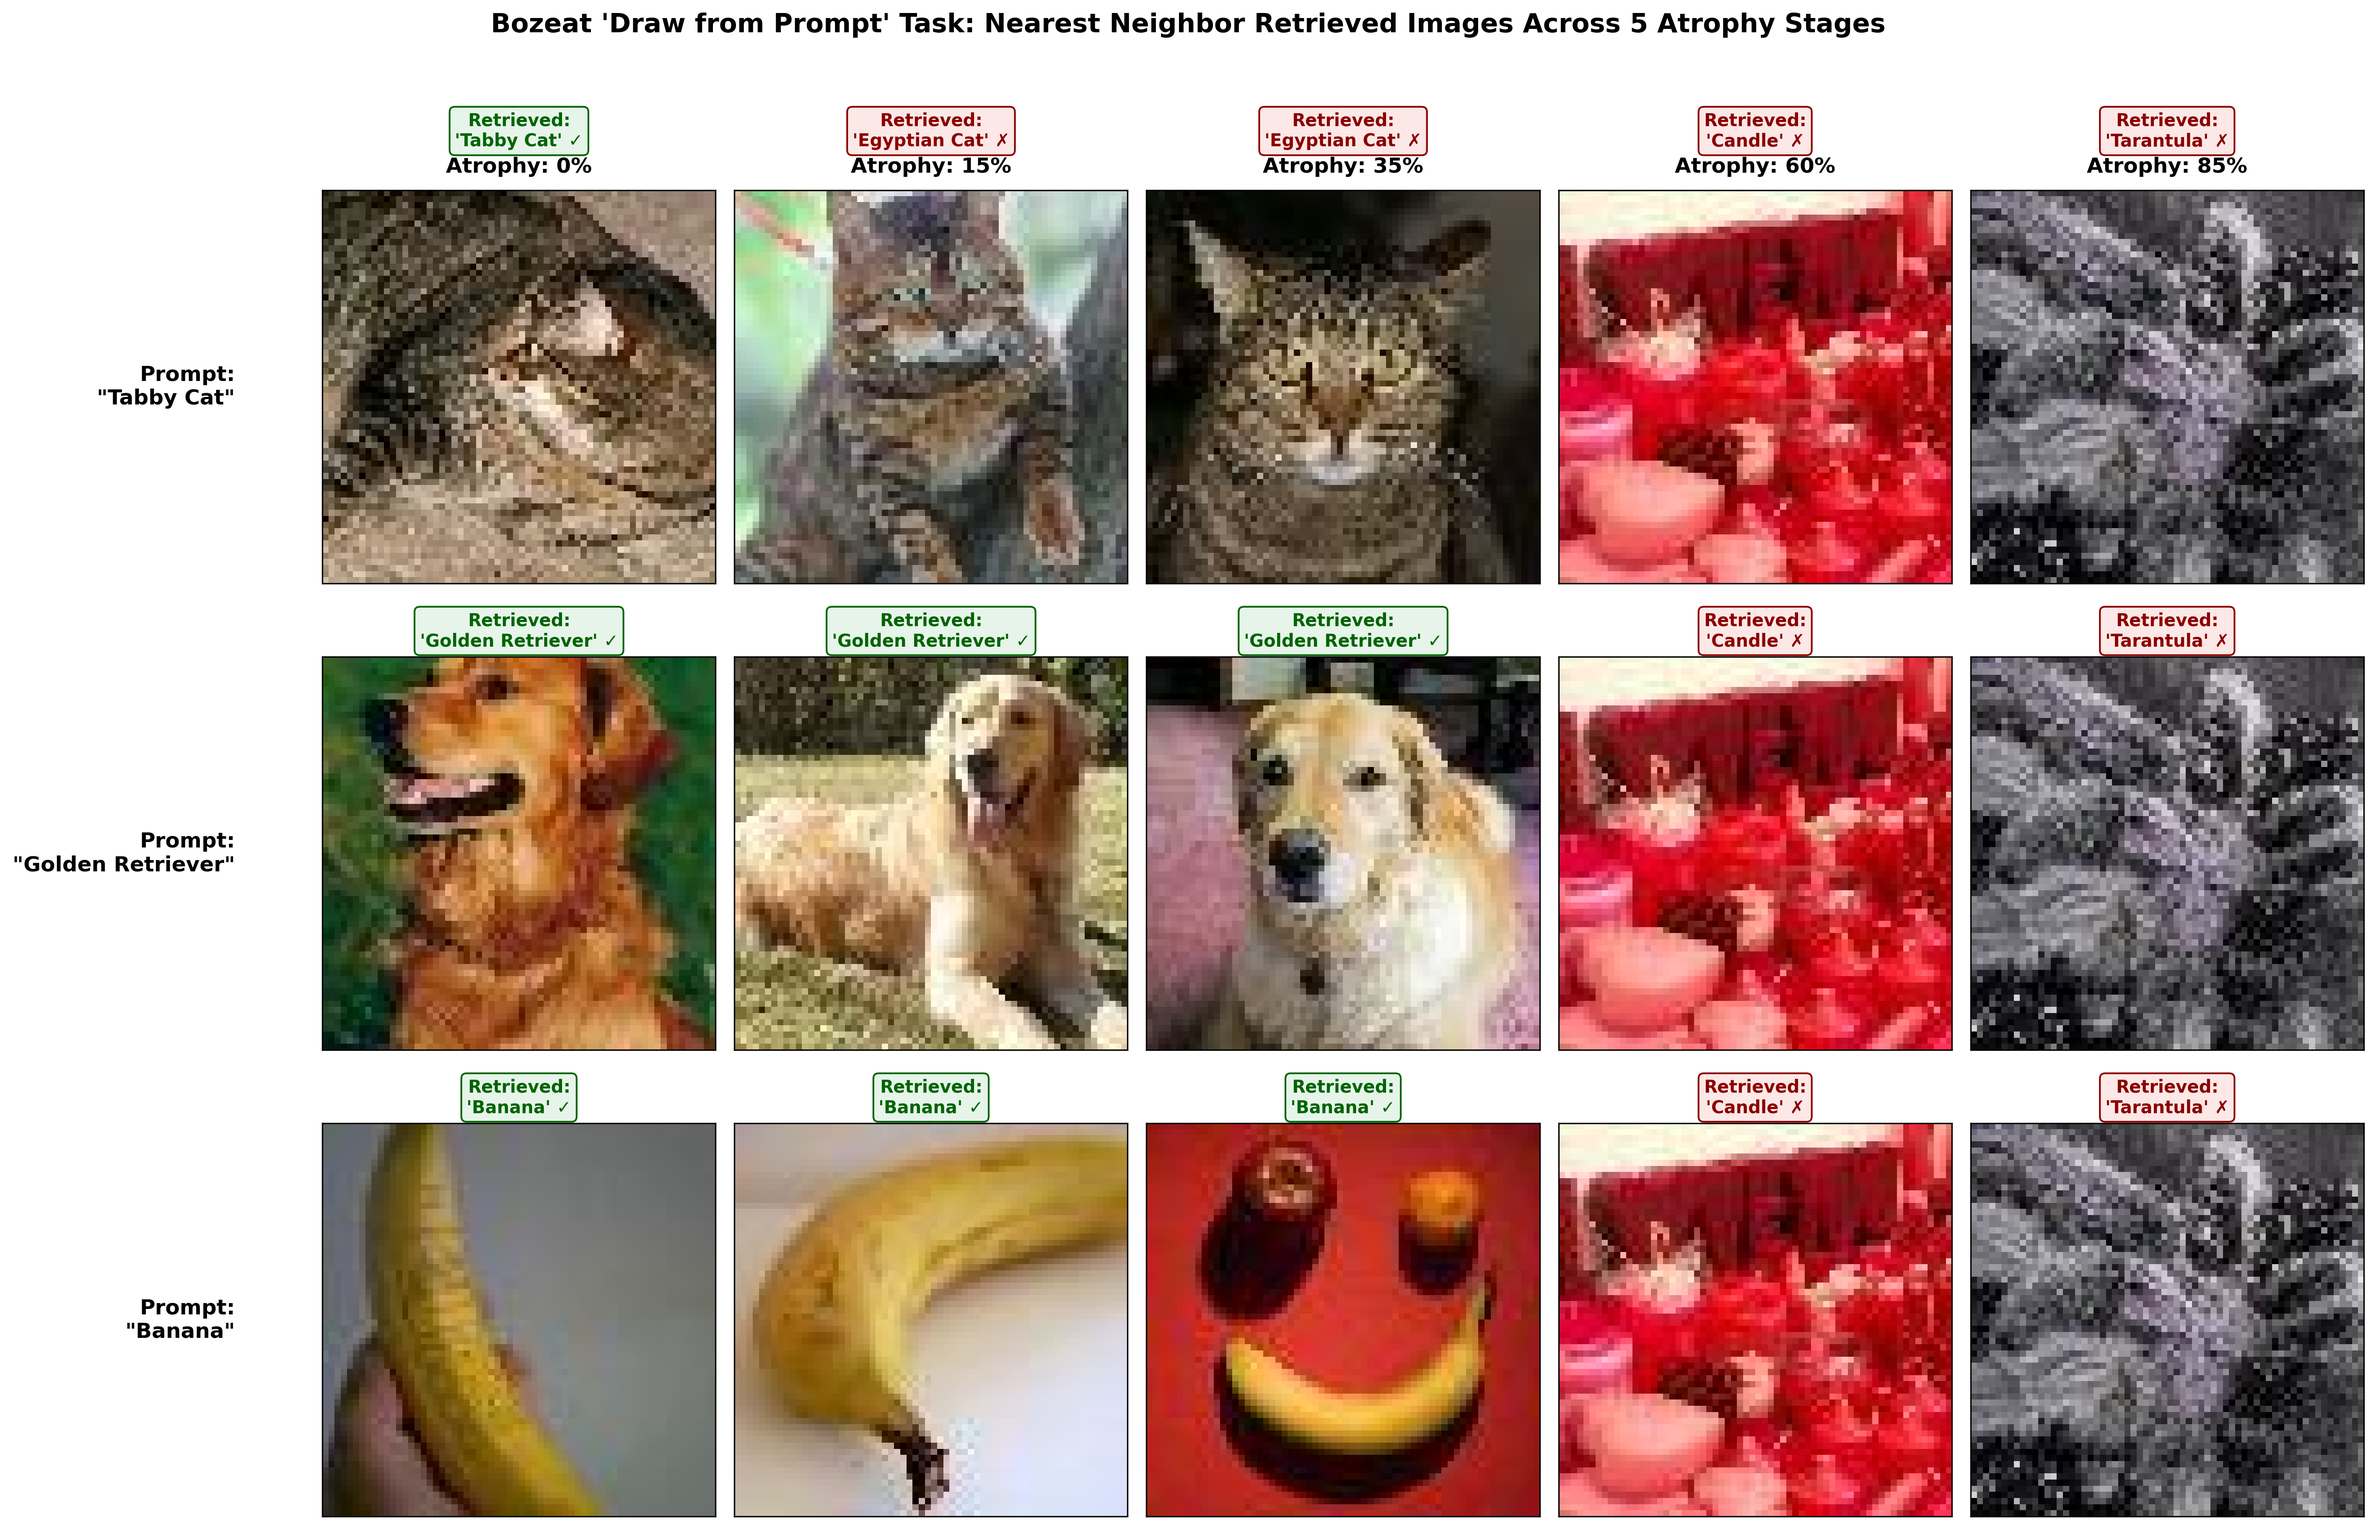
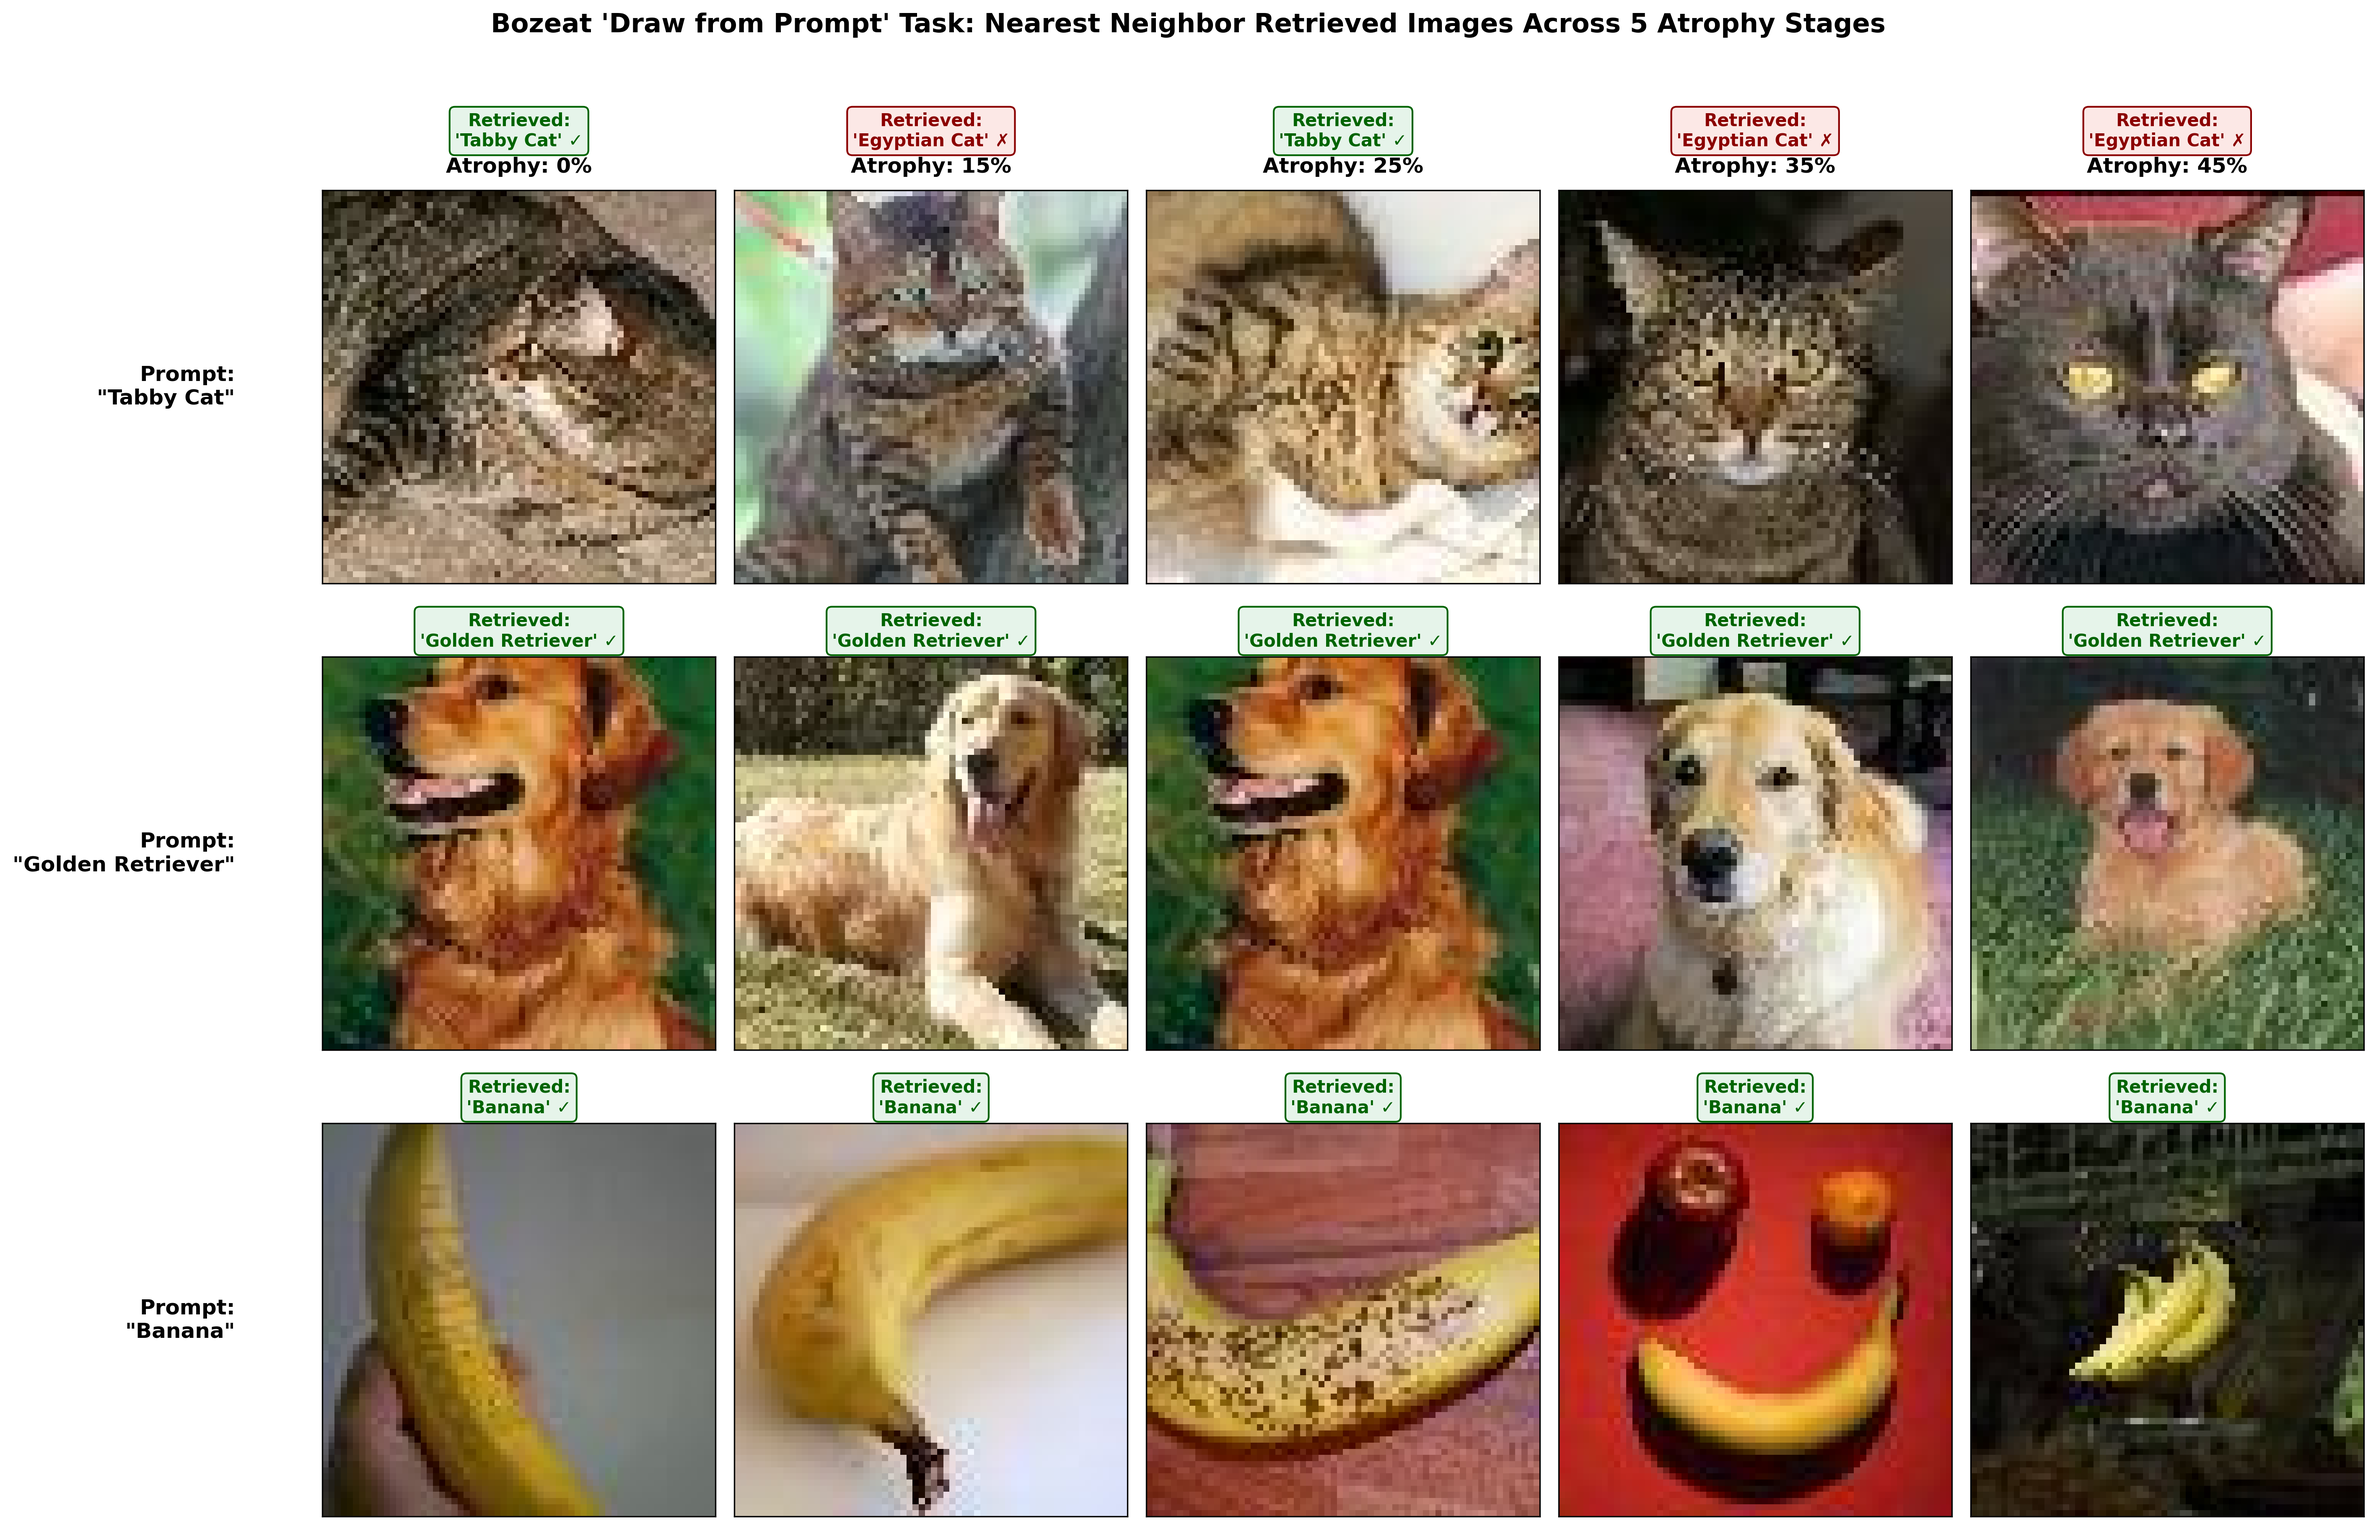
extending bozeat experiment

diff --git a/src/bozeat_experiment.py b/src/bozeat_experiment.py
@@ -5,8 +5,11 @@ import pandas as pd
 from PIL import Image
 import torch
 
-# Selected 5-stage pruning schedule
-PRUNING_LEVELS_5 = [0.00, 0.15, 0.35, 0.60, 0.85]
+# Extended 10-stage pruning schedule (0% to 85% at ~10% increments)
+PRUNING_LEVELS_EXTENDED = [0.00, 0.10, 0.20, 0.30, 0.40, 0.50, 0.60, 0.70, 0.80, 0.85]
+
+# 4 target prompts spanning living and non-living categories
+DEFAULT_TARGET_PROMPTS = ["Tabby Cat", "Golden Retriever", "Sports Car", "Lemon"]
 
 
 def _get_column_mappings(metadata):
@@ -50,40 +53,38 @@ def load_image_safely(img_path):
     return None
 
 
-def run_bozeat_visual_grid_5levels(
+def run_bozeat_visual_grid(
     evaluator,
-    pruning_levels=PRUNING_LEVELS_5,
-    target_prompts=["Tabby Cat", "Golden Retriever", "Sports Car"],
+    pruning_levels=PRUNING_LEVELS_EXTENDED,
+    target_prompts=DEFAULT_TARGET_PROMPTS,
     output_dir="./data/results/bozeat_experiment",
 ):
-    """Executes Bozeat et al. 'Draw from Prompt' task and generates a 5-level visual grid
+    """Executes Bozeat et al. 'Draw from Prompt' task and generates a 4x10 visual grid
 
-    showing actual retrieved image files for 3 text prompts.
+    showing actual retrieved image files across 10 pruning increments.
     """
     print("=" * 70)
-    print(" RUNNING BOZEAT ET AL. 'DRAW FROM PROMPT' VISUAL RETRIEVAL (5 LEVELS) ")
+    print(" RUNNING BOZEAT ET AL. 'DRAW FROM PROMPT' VISUAL RETRIEVAL ")
     print("=" * 70)
 
     os.makedirs(output_dir, exist_ok=True)
     meta = evaluator.metadata.reset_index(drop=True)
     spec_col, coord_col, super_col = _get_column_mappings(meta)
-    concept_lookup = meta.drop_duplicates(spec_col).set_index(spec_col)
 
     # Filter target prompts available in metadata
     available_concepts = list(meta[spec_col].unique())
     selected_prompts = [p for p in target_prompts if p in available_concepts]
 
-    # Fallback selection if prompts are named slightly differently
-    if len(selected_prompts) < 3:
+    # Fallback selection if target prompts are named slightly differently in metadata
+    if len(selected_prompts) < len(target_prompts):
         for c in available_concepts:
             if c not in selected_prompts:
                 selected_prompts.append(c)
-            if len(selected_prompts) == 3:
+            if len(selected_prompts) == len(target_prompts):
                 break
 
     print(f"[*] Target prompts selected for visual drawing grid:\n    {selected_prompts}")
 
-    # Data structure: {prompt: [(pruning_level, retrieved_image_path, retrieved_concept_name, is_correct)]}
     retrieval_grid_data = {p: [] for p in selected_prompts}
 
     for p_level in pruning_levels:
@@ -98,16 +99,15 @@ def run_bozeat_visual_grid_5levels(
                 continue
 
             concept_idx = unique_concepts.index(prompt_concept)
-            prompt_vec = text_feats[concept_idx].unsqueeze(0)  # Shape: [1, D]
+            prompt_vec = text_feats[concept_idx].unsqueeze(0)
 
             # Compute similarity of target prompt against all dataset images
-            sims = torch.matmul(img_feats, prompt_vec.T).squeeze(1)  # Shape: [N_images]
+            sims = torch.matmul(img_feats, prompt_vec.T).squeeze(1)
             best_img_idx = torch.argmax(sims).item()
 
             retrieved_row = eval_meta.iloc[best_img_idx]
             retrieved_concept = retrieved_row[spec_col]
 
-            # Find image path column
             path_col = next(
                 (c for c in ["filepath", "filename", "image_path", "path", "file_path"] if c in retrieved_row.index),
                 None,
@@ -119,11 +119,11 @@ def run_bozeat_visual_grid_5levels(
                 (p_level, img_path, retrieved_concept, is_correct)
             )
 
-    # --- RENDER 3x5 VISUAL GRID ---
+    # --- RENDER 4x10 VISUAL GRID ---
     n_rows = len(selected_prompts)
     n_cols = len(pruning_levels)
 
-    fig, axes = plt.subplots(n_rows, n_cols, figsize=(3.8 * n_cols, 4.0 * n_rows))
+    fig, axes = plt.subplots(n_rows, n_cols, figsize=(2.8 * n_cols, 3.2 * n_rows))
     if n_rows == 1:
         axes = np.expand_dims(axes, axis=0)
 
@@ -137,7 +137,6 @@ def run_bozeat_visual_grid_5levels(
             if img is not None:
                 ax.imshow(img)
             else:
-                # Render placeholder if image file is not on disk
                 ax.set_facecolor("#e0e0e0")
                 ax.text(
                     0.5,
@@ -145,65 +144,65 @@ def run_bozeat_visual_grid_5levels(
                     f"Retrieved:\n{ret_concept}\n(Image File\nNot Found)",
                     ha="center",
                     va="center",
-                    fontsize=9,
+                    fontsize=7.5,
                     color="black",
                 )
 
             ax.set_xticks([])
             ax.set_yticks([])
 
-            # Title styling: Green for exact target, Red/Orange for error
+            # Compact titles for 10-column layout
             if is_correct:
-                title_text = f"Retrieved:\n'{ret_concept}' ✓"
+                title_text = f"'{ret_concept}' ✓"
                 title_color = "darkgreen"
                 box_color = "#e6f4ea"
             else:
-                title_text = f"Retrieved:\n'{ret_concept}' ✗"
+                title_text = f"'{ret_concept}' ✗"
                 title_color = "darkred"
                 box_color = "#fce8e6"
 
             ax.set_title(
                 title_text,
-                fontsize=10,
+                fontsize=8.5,
                 color=title_color,
                 fontweight="bold",
-                pad=6,
-                bbox=dict(boxstyle="round,pad=0.3", facecolor=box_color, edgecolor=title_color, lw=1),
+                pad=4,
+                bbox=dict(boxstyle="round,pad=0.2", facecolor=box_color, edgecolor=title_color, lw=0.8),
             )
 
-            # Column Headers (Pruning Level)
+            # Column Headers (Pruning Levels)
             if r_idx == 0:
                 ax.set_xlabel(
-                    f"Atrophy: {p_level * 100:.0f}%",
-                    fontsize=12,
+                    f"{p_level * 100:.0f}%",
+                    fontsize=11,
                     fontweight="bold",
-                    labelpad=10,
+                    labelpad=8,
                 )
                 ax.xaxis.set_label_position("top")
 
-            # Row Labels (Text Prompt Query)
+            # Row Labels (Text Prompts)
             if c_idx == 0:
                 ax.set_ylabel(
                     f"Prompt:\n\"{prompt_concept}\"",
-                    fontsize=12,
+                    fontsize=10.5,
                     fontweight="bold",
                     rotation=0,
-                    labelpad=50,
+                    labelpad=45,
                     ha="right",
                     va="center",
                 )
 
     plt.suptitle(
-        "Bozeat 'Draw from Prompt' Task: Nearest Neighbor Retrieved Images Across 5 Atrophy Stages",
-        fontsize=15,
+        "Bozeat 'Draw from Prompt' Task: Visual Retrieval Trajectory Across Atrophy Increments (0% to 85%)",
+        fontsize=14,
         fontweight="bold",
         y=1.02,
     )
     plt.tight_layout()
 
-    save_path = os.path.join(output_dir, "bozeat_retrieved_images_5levels.png")
+    save_path = os.path.join(output_dir, "bozeat_retrieved_images_extended.png")
     plt.savefig(save_path, dpi=300, bbox_inches="tight")
     plt.close()
 
-    print(f"\n[+] Success! Visual Bozeat grid saved to:\n    {save_path}")
+    print(f"\n[+] Success! Extended visual Bozeat grid saved to:\n    {save_path}")
     return save_path

diff --git a/run_bozeat_grid.py b/run_bozeat_grid.py
@@ -1,31 +1,31 @@
 import torch
+from src.bozeat_experiment import (
+    DEFAULT_TARGET_PROMPTS,
+    PRUNING_LEVELS_EXTENDED,
+    run_bozeat_visual_grid,
+)
 from src.joint_evaluator import JointSpaceEvaluator
-from src.bozeat_experiment import run_bozeat_visual_grid_5levels
 
-# 5 Pruning Levels
-PRUNING_LEVELS_5 = [0.00, 0.15, 0.35, 0.60, 0.85]
-
-# 3 Prompts across living & non-living domains
-TARGET_PROMPTS = ["Tabby Cat", "Golden Retriever", "Sports Car"]
 
 def main():
     device = "cuda" if torch.cuda.is_available() else "cpu"
-    print(f"[*] Executing 5-Level Bozeat Visual Retrieval Grid on device: {device}")
+    print(f"[*] Executing extended Bozeat Visual Retrieval Grid on: {device}")
 
     evaluator = JointSpaceEvaluator(
         metadata_path="./data/processed/metadata_processed.csv",
         model_name="ViT-B/32",
         device=device,
         batch_size=32,
-        balance_taxonomically=True
+        balance_taxonomically=True,
     )
 
-    run_bozeat_visual_grid_5levels(
+    run_bozeat_visual_grid(
         evaluator,
-        pruning_levels=PRUNING_LEVELS_5,
-        target_prompts=TARGET_PROMPTS,
-        output_dir="./data/results/bozeat_experiment"
+        pruning_levels=PRUNING_LEVELS_EXTENDED,
+        target_prompts=DEFAULT_TARGET_PROMPTS,
+        output_dir="./data/results/bozeat_experiment",
     )
+
 
 if __name__ == "__main__":
     main()

diff --git a/src/generate_tsne_subcategories.py b/src/generate_tsne_subcategories.py
@@ -7,7 +7,7 @@ import torch
 from sklearn.manifold import TSNE
 
 # Selected 5-stage pruning schedule
-PRUNING_LEVELS_5 = [0.00, 0.15, 0.35, 0.60, 0.85]
+PRUNING_LEVELS_5 = [0.00, 0.15, 0.25, 0.35, 0.45]
 
 
 def _get_taxonomy_mapping(metadata):
